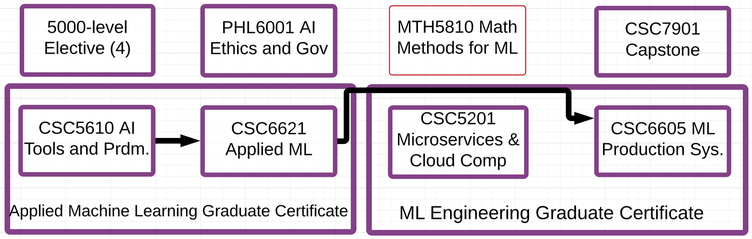
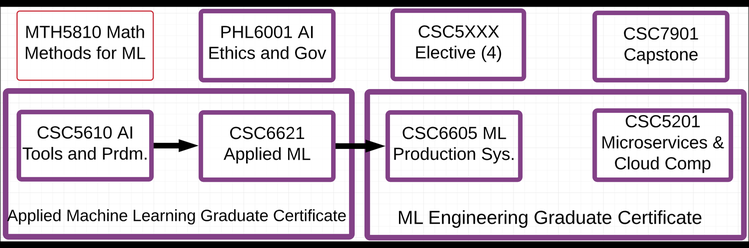
MSML: rearrange courses to more standard order

diff --git a/advising/msml.md b/advising/msml.md
@@ -60,7 +60,7 @@ The MS can be taken as a 5-year dual enrollment program with many MSOE undergrad
 
 MSOE CS students and graduates replace CSC5610 and MTH5810 with approved electives.
 
-<img src="msml-2y-1x.png" width="752" height="239" border="0" srcset="msml-2y-1x.png 1x, msml-2y-2x.png 2x, msml-2y-4x.png 4x"/>
+<img src="msml-2y-1x.png" width="749" height="248" border="0" srcset="msml-2y-1x.png 1x, msml-2y-2x.png 2x, msml-2y-4x.png 4x"/>
 
 # Course Details
 
